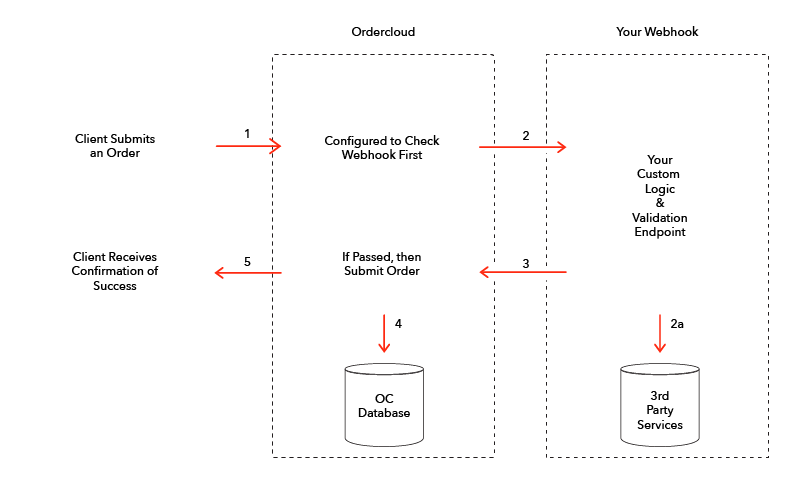
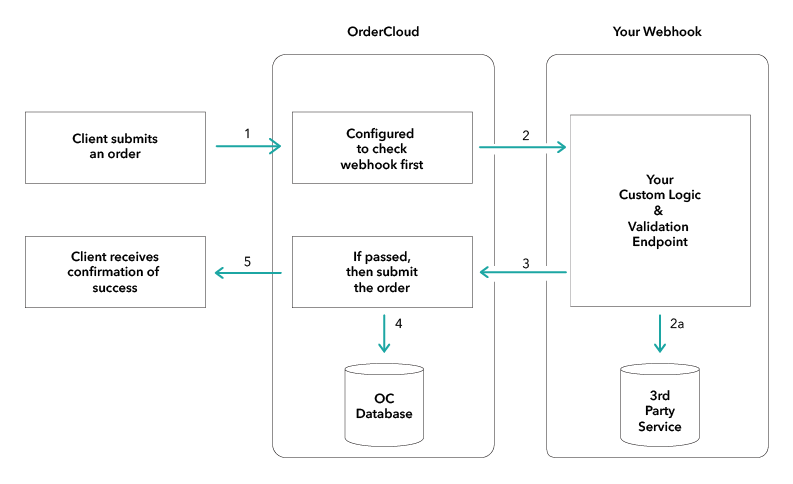
All updated graphics for rebrand
Added updated logo as well

diff --git a/src/components/Layout/Header2.tsx b/src/components/Layout/Header2.tsx
@@ -13,7 +13,8 @@ import {
 import { ChevronRight } from '@material-ui/icons'
 import { graphql, Link, StaticQuery } from 'gatsby'
 import React, { Fragment, FunctionComponent, useMemo } from 'react'
-import sitecoreLogo from '../../assets/svg/oclogo_dark.svg'
+import sitecoreLogo from '../../assets/svg/oc_sc_logo.svg'
+import sitecoreLogoIcon from '../../assets/svg/oc_sc_icon.svg'
 import ORDERCLOUD_THEME from '../../theme/theme.constants'
 import ChipLink from '../Shared/ChipLink'
 import DocSearch from '../Shared/DocSearch'
@@ -47,12 +48,8 @@ const useStyles = makeStyles((theme: Theme) =>
       marginRight: theme.spacing(2),
       padding: theme.spacing(0.5, 1, 1),
     },
-    logoIcon: {
-      width: theme.spacing(8),
-      height: theme.spacing(5),
-      [theme.breakpoints.down('md')]: {
-        marginRight: 'auto',
-      },
+    logoNormal: {
+      width: 170,
     },
     lockup: {
       color: theme.palette.text.primary,
@@ -183,12 +180,7 @@ const HeaderContent: FunctionComponent<HeaderContentProps> = ({
           <Container maxWidth="lg">
             <Toolbar disableGutters>
               <Link to="/" className={classes.logo}>
-                <img className={classes.logoIcon} src={sitecoreLogo}></img>
-                <h1 className={classes.lockup}>
-                  <span className={classes.trademark}>TM</span>
-                  <span className={classes.sitecoreText}>Sitecore</span>
-                  <span className={classes.ordercloudText}>OrderCloud</span>
-                </h1>
+                <img className={classes.logoNormal} src={sitecoreLogo}></img>
               </Link>
               <Hidden smDown>
                 <Button

diff --git a/src/components/Shared/Jumbotron.tsx b/src/components/Shared/Jumbotron.tsx
@@ -1,6 +1,7 @@
 import {
   Container,
   createStyles,
+  fade,
   lighten,
   Paper,
   Theme,
@@ -8,8 +9,7 @@ import {
 } from '@material-ui/core'
 import { makeStyles } from '@material-ui/styles'
 import React, { FunctionComponent } from 'react'
-import { seafoam } from '../../theme/ocPalette.constants'
-import ocPlatform from '../../assets/svg/four51-banner-bg.svg'
+import { base_color_1 } from '../../theme/theme.constants'
 
 const useStyles = makeStyles((theme: Theme) =>
   createStyles({
@@ -30,8 +30,7 @@ const useStyles = makeStyles((theme: Theme) =>
         borderRadius: 0,
         overflowY: 'hidden',
         overflowX: 'hidden',
-        backgroundImage:
-          'linear-gradient(-44deg, #28A7C5 0, #2AA1C8 27%, #2C96CE 66%, #3C8DD5 100%)',
+        backgroundColor: base_color_1,
         backgroundSize: '400% 400%',
         // background: `linear-gradient(${lighten(
         //   theme.palette.secondary.main,
@@ -115,7 +114,7 @@ const useStyles = makeStyles((theme: Theme) =>
       },
     },
     jumbotronText: ({ align }) => ({
-      color: seafoam[50],
+      color: fade('#ffffff', 0.8),
       maxWidth: align === 'center' ? 700 : 900,
       margin: align === 'center' ? '0 auto' : undefined,
       textShadow: '1px 1px 2px rgba(0,0,0,0.25)',

diff --git a/src/components/Layout/Main.tsx b/src/components/Layout/Main.tsx
@@ -136,9 +136,9 @@ const MainComponent: React.FunctionComponent = props => {
         //   alt: 'homepage background',
         // }}
         overlayed={true}
-        heading="SITECORE® OrderCloud™"
+        heading="Sitecore OrderCloud"
         text={[
-          'With Sitecore® OrderCloud™, design your own commerce solution with an API-first, headless cloud platform for B2B, B2C, and B2X. OrderCloud powers custom eCommerce experiences, order management, and B2B marketplace applications for some of the world’s most well-known brands - processing over 25 million transactions and $5 billion in revenue annually.',
+          'With Sitecore OrderCloud®, design your own commerce solution with an API-first, headless cloud platform for B2B, B2C, and B2X. OrderCloud powers custom eCommerce experiences, order management, and B2B marketplace applications for some of the world’s most well-known brands - processing over 25 million transactions and $5 billion in revenue annually.',
         ]}
         actions={[
           <ButtonLink

diff --git a/src/components/Layout/Footer.tsx b/src/components/Layout/Footer.tsx
@@ -287,7 +287,7 @@ class Footer extends React.Component<any> {
                 <img className={classes.logo} src={footerLogo} alt="OC" />
               </Box>
               <Typography variant="body2" className={classes.Typography}>
-                © Copyright {currentYear}, Sitecore OrderCloud. All rights
+                © Copyright {currentYear}, Sitecore OrderCloud®. All rights
                 reserved.
               </Typography>
             </Grid>
